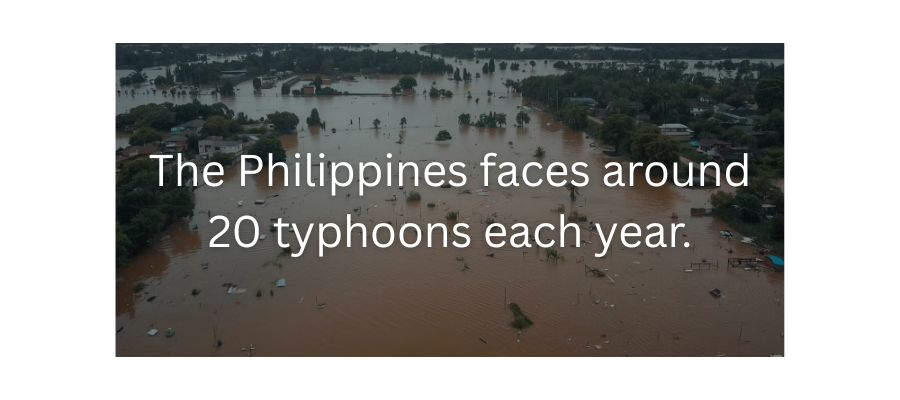
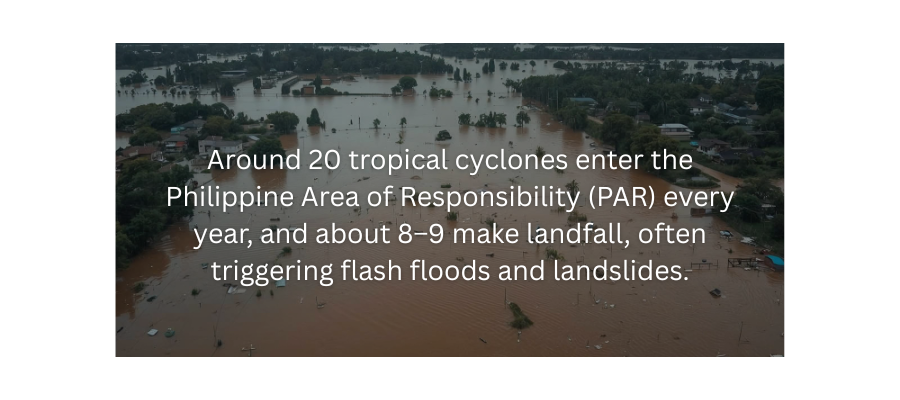
Updated Awareness page layout and added bordered rectangles with images

Changed region(s): [[0.1556, 0.36, 0.84, 0.72]]

diff --git a/Pages/awareness.html b/Pages/awareness.html
@@ -17,7 +17,7 @@
   <header class="shadow-sm fixed-top bg-white bg-opacity-95">
     <div class="container d-flex justify-content-between align-items-center py-3">
       <div class="logo fs-3 fw-bold text-primary d-flex align-items-center gap-2">
-        🌊 Project Daluyong
+         Project Daluyong
       </div>
       <nav>
         <ul class="nav">
@@ -43,67 +43,77 @@
 
     <!-- Awareness Cards -->
     <div class="row g-4 text-center justify-content-center my-4">
-      <div class="col-md-4">
-        <div class="card h-100 shadow access-card" onclick="scrollToSection('before')">
-          <div class="card-body">
-            <h3 class="card-title text-primary">Before the Storm</h3>
-            <p class="card-text">Learn how to prepare before disaster strikes.</p>
-          </div>
-        </div>
-      </div>
-
-      <div class="col-md-4">
-        <div class="card h-100 shadow access-card" onclick="scrollToSection('during')">
-          <div class="card-body">
-            <h3 class="card-title text-primary">During the Emergency</h3>
-            <p class="card-text">Stay safe and informed while the storm is ongoing.</p>
-          </div>
-        </div>
-      </div>
-
-      <div class="col-md-4">
-        <div class="card h-100 shadow access-card" onclick="scrollToSection('after')">
-          <div class="card-body">
-            <h3 class="card-title text-primary">After the Event</h3>
-            <p class="card-text">Know what to do and how to recover post-flood.</p>
-          </div>
-        </div>
-      </div>
+  <!-- Before the Storm -->
+  <div class="col-md-4">
+    <div class="card h-100 shadow awareness-scroll-card p-4" onclick="scrollToSection('before')">
+      <i class="fa-solid fa-cloud-bolt fa-3x mb-3"></i>
+      <h3 class="card-title text-white fw-bold">Before the Storm</h3>
+      <p class="card-text text-white-50">Learn how to prepare before disaster strikes.</p>
     </div>
+  </div>
 
-    <!-- Awareness Details -->
-    <section class="hotlines mb-4" id="before">
-      <h2 class="text-center text-primary mb-3">Before the Storm </h2>
-      <ul class="list-group list-group-flush">
-        <li class="list-group-item">✅ Stay informed about weather forecasts and alerts from PAGASA or local authorities.</li>
-        <li class="list-group-item">✅ Prepare an emergency kit with food, water, flashlight, radio, batteries, and first aid supplies.</li>
-        <li class="list-group-item">✅ Secure important documents in waterproof containers.</li>
-        <li class="list-group-item">✅ Move valuables to higher ground and unplug electrical appliances.</li>
-        <li class="list-group-item">✅ Plan evacuation routes and know the nearest shelter.</li>
-      </ul>
-    </section>
+  <!-- During the Emergency -->
+  <div class="col-md-4">
+    <div class="card h-100 shadow awareness-scroll-card p-4" onclick="scrollToSection('before')">
+      <i class="fa-solid fa-triangle-exclamation fa-3x mb-3"></i>
+      <h3 class="card-title text-white fw-bold">During the Emergency</h3>
+      <p class="card-text text-white-50">Stay safe and informed while the storm is ongoing.</p>
+    </div>
+  </div>
 
-    <section class="hotlines mb-4" id="during">
-      <h2 class="text-center text-primary mb-3">During the Emergency </h2>
-      <ul class="list-group list-group-flush">
-        <li class="list-group-item">⚠ Stay calm and follow official instructions.</li>
-        <li class="list-group-item">⚠ Evacuate immediately if advised or if water levels rise.</li>
-        <li class="list-group-item">⚠ Avoid walking or driving through floodwaters.</li>
-        <li class="list-group-item">⚠ Stay updated via radio or official pages.</li>
-        <li class="list-group-item">⚠ Use text messages to contact family; keep lines open.</li>
-      </ul>
-    </section>
+  <!-- After the Event -->
+  <div class="col-md-4">
+    <div class="card h-100 shadow awareness-scroll-card p-4" onclick="scrollToSection('before')">
+      <i class="fa-solid fa-house-chimney fa-3x mb-3"></i>
+      <h3 class="card-title text-white fw-bold">After the Event</h3>
+      <p class="card-text text-white-50">Know what to do and how to recover post-flood.</p>
+    </div>
+  </div>
+</div>
 
-    <section class="hotlines mb-4" id="after">
-      <h2 class="text-center text-primary mb-3">After the Event </h2>
-      <ul class="list-group list-group-flush">
-        <li class="list-group-item">🏠 Return home only when authorities say it's safe.</li>
-        <li class="list-group-item">🏠 Avoid contact with floodwater; it may be contaminated.</li>
-        <li class="list-group-item">🏠 Clean and disinfect items touched by floodwater.</li>
-        <li class="list-group-item">🏠 Document damages for insurance or assistance.</li>
-        <li class="list-group-item">🏠 Check for structural damage before entering your home.</li>
-      </ul>
-    </section>
+   <!-- Awareness Details -->
+<section class="hotlines mb-4 awareness-detail d-flex flex-column flex-md-row align-items-center border rounded-4 p-4 shadow" id="before" style="border: 3px solid #667eea;">
+  <div class="flex-grow-1 me-md-4 text-start">
+    <h2 class="text-primary mb-3">Before the Storm</h2>
+    <ul class="list-group list-group-flush">
+      <li class="list-group-item border-0">✅ Monitor weather forecasts and updates from PAGASA or local authorities.</li>
+      <li class="list-group-item border-0">✅ Prepare a “Go Bag” with food, water, flashlight, batteries, and first aid essentials.</li>
+      <li class="list-group-item border-0">✅ Keep important documents and valuables in waterproof containers.</li>
+      <li class="list-group-item border-0">✅ Secure your home — unplug appliances and elevate items if you live in a flood-prone area.</li>
+      <li class="list-group-item border-0">✅ Identify safe evacuation routes and inform your family about them.</li>
+    </ul>
+  </div>
+  <img src="images/before-storm.jpg" alt="Before the Storm" class="img-fluid rounded-4 mt-3 mt-md-0" style="max-width: 300px; height: auto;">
+</section>
+
+<section class="hotlines mb-4 awareness-detail d-flex flex-column flex-md-row align-items-center border rounded-4 p-4 shadow" id="during" style="border: 3px solid #6a5acd;">
+  <div class="flex-grow-1 me-md-4 text-start">
+    <h2 class="text-primary mb-3">During the Emergency</h2>
+    <ul class="list-group list-group-flush">
+      <li class="list-group-item border-0">⚠ Stay alert and follow official instructions from disaster response units.</li>
+      <li class="list-group-item border-0">⚠ Evacuate immediately when advised — don’t wait for floodwaters to rise.</li>
+      <li class="list-group-item border-0">⚠ Avoid walking, swimming, or driving through moving water.</li>
+      <li class="list-group-item border-0">⚠ Stay tuned to the radio or official social media pages for updates.</li>
+      <li class="list-group-item border-0">⚠ Keep communication lines open — use text messages instead of calls.</li>
+    </ul>
+  </div>
+  <img src="images/during-storm.jpg" alt="During the Emergency" class="img-fluid rounded-4 mt-3 mt-md-0" style="max-width: 300px; height: auto;">
+</section>
+
+<section class="hotlines mb-4 awareness-detail d-flex flex-column flex-md-row align-items-center border rounded-4 p-4 shadow" id="after" style="border: 3px solid #764ba2;">
+  <div class="flex-grow-1 me-md-4 text-start">
+    <h2 class="text-primary mb-3">After the Event</h2>
+    <ul class="list-group list-group-flush">
+      <li class="list-group-item border-0">🏠 Return home only when authorities declare it safe to do so.</li>
+      <li class="list-group-item border-0">🏠 Avoid contact with floodwater — it may contain harmful waste or chemicals.</li>
+      <li class="list-group-item border-0">🏠 Clean and disinfect everything that came in contact with floodwater.</li>
+      <li class="list-group-item border-0">🏠 Document property damage for insurance and assistance purposes.</li>
+      <li class="list-group-item border-0">🏠 Check for structural damage, gas leaks, and exposed wires before entering.</li>
+    </ul>
+  </div>
+  <img src="images/after-storm.jpg" alt="After the Event" class="img-fluid rounded-4 mt-3 mt-md-0" style="max-width: 300px; height: auto;">
+</section>
+
 
     <!-- Emergency Hotlines -->
     <section class="hotlines">

diff --git a/Pages/styletest.css b/Pages/styletest.css
@@ -347,7 +347,7 @@
     }
 
     .awareness-item {
-      background: #2c5aa0;
+      background: #ffffff;
       border-radius: 10px;
       display: flex;
       align-items: center;
@@ -365,6 +365,10 @@
       background: #1e3d6f;
       transform: translateY(-3px);
     }
+    body {
+  background: linear-gradient(135deg, #667eea 0%, #764ba2 100%);
+  color: #333;
+}
 
     /* Map Section */
     .map-container {
@@ -830,4 +834,112 @@ header .nav-link {
   object-fit: cover;          /* crop nicely */
   border-radius: 15px;        /* matches your design */
 }
+/* Awareness cards style */
+.awareness-card {
+  background: linear-gradient(135deg, rgba(44, 90, 160, 0.9), rgba(118, 75, 162, 0.9));
+  color: white;
+  border: none;
+  border-radius: 20px;
+  transition: all 0.3s ease;
+  cursor: pointer;
+}
+
+.awareness-card i {
+  color: #ffd43b; /* yellow accent for icons */
+  transition: transform 0.3s ease;
+}
+
+.awareness-card:hover {
+  transform: translateY(-8px);
+  box-shadow: 0 12px 30px rgba(0, 0, 0, 0.25);
+  background: linear-gradient(135deg, rgba(65, 115, 190, 1), rgba(138, 85, 190, 1));
+}
+
+.awareness-card:hover i {
+  transform: scale(1.1);
+}
+/* Awareness cards style */
+.awareness-card {
+  background: linear-gradient(135deg, rgba(44, 90, 160, 0.95), rgba(118, 75, 162, 0.95));
+  color: white;
+  border: none;
+  border-radius: 20px;
+  transition: all 0.3s ease;
+  cursor: pointer;
+}
+
+.awareness-card i {
+  color: #ffd43b; /* yellow accent */
+  transition: transform 0.3s ease;
+}
+
+.awareness-card:hover {
+  transform: translateY(-8px);
+  box-shadow: 0 12px 30px rgba(0, 0, 0, 0.25);
+  background: linear-gradient(135deg, rgba(65, 115, 190, 1), rgba(138, 85, 190, 1));
+}
+
+.awareness-card:hover i {
+  transform: scale(1.1);
+}
+/* Awareness cards style */
+.awareness-scroll-card {
+  background: linear-gradient(135deg, rgba(44, 90, 160, 0.95), rgba(118, 75, 162, 0.95));
+  color: white;
+  border: none;
+  border-radius: 20px;
+  transition: all 0.3s ease;
+  cursor: pointer;
+}
+
+.awareness-card i {
+  color: #ffd43b; /* yellow accent */
+  transition: transform 0.3s ease;
+}
+
+.awareness-card:hover {
+  transform: translateY(-8px);
+  box-shadow: 0 12px 30px rgba(0, 0, 0, 0.25);
+  background: linear-gradient(135deg, rgba(65, 115, 190, 1), rgba(138, 85, 190, 1));
+}
+
+.awareness-card:hover i {
+  transform: scale(1.1);
+}
+.awareness-detail {
+  background: linear-gradient(135deg, #667eea 0%, #764ba2 100%);
+  border-radius: 20px;
+  padding: 30px;
+  color: white;
+  box-shadow: 0 6px 15px rgba(0, 0, 0, 0.3);
+  transition: transform 0.3s ease, box-shadow 0.3s ease;
+}
+
+.awareness-detail:hover {
+  transform: translateY(-5px);
+  box-shadow: 0 8px 20px rgba(0, 0, 0, 0.4);
+}
+
+.awareness-detail .list-group-item {
+  background: transparent;
+  border: none;
+  color: #fff;
+  font-size: 1rem;
+  text-align: left;
+}
+
+.awareness-detail h2 i {
+  color: #ffdf6c;
+}
+.awareness-detail h2 {
+  color: white !important;
+}
+header {
+  background-color: rgba(255, 255, 255, 0.95);
+  transition: background-color 0.3s ease-in-out;
+}
+
+
+
+
 

diff --git a/Pages/script.js b/Pages/script.js
@@ -86,3 +86,23 @@ window.addEventListener("scroll", () => {
 scrollBtn.addEventListener("click", () => {
   window.scrollTo({ top: 0, behavior: "smooth" });
 });
+document.querySelector('form[role="search"]').addEventListener('submit', function(e) {
+  e.preventDefault();
+
+  const query = this.querySelector('input').value.toLowerCase();
+  const elements = document.querySelectorAll('h1, h2, h3, p, li, a');
+  let found = false;
+
+  elements.forEach(el => {
+    if (el.textContent.toLowerCase().includes(query)) {
+      el.scrollIntoView({ behavior: 'smooth', block: 'center' });
+      el.style.backgroundColor = 'rgba(255, 255, 0, 0.4)'; // highlight effect
+      setTimeout(() => el.style.backgroundColor = '', 2000); // remove highlight after 2s
+      found = true;
+    }
+  });
+
+  if (!found) {
+    alert('No matching content found on this page.');
+  }
+});

diff --git a/Pages/home.html b/Pages/home.html
@@ -17,7 +17,7 @@
   <header class="shadow-sm fixed-top bg-white bg-opacity-95">
     <div class="container d-flex justify-content-between align-items-center py-3">
       <div class="logo fs-3 fw-bold text-primary d-flex align-items-center gap-2">
-        🌊 Project Daluyong
+         Project Daluyong
       </div>
       <nav>
         <ul class="nav">
@@ -141,7 +141,6 @@
       <h5>BFP Fire Emergency</h5>
       <p class="hotline-number">116</p>
     </div>
-
   </div>
 </section>
  <!-- Quick Facts Carousel -->

diff --git a/Pages/map.html b/Pages/map.html
@@ -14,7 +14,7 @@
   <!-- Navbar -->
   <header class="shadow-sm fixed-top bg-white bg-opacity-95">
     <div class="container d-flex justify-content-between align-items-center py-3">
-      <div class="logo fs-3 fw-bold text-primary d-flex align-items-center gap-2">🌊 Project Daluyong</div>
+      <div class="logo fs-3 fw-bold text-primary d-flex align-items-center gap-2"> Project Daluyong</div>
       <nav>
         <ul class="nav">
           <li class="nav-item"><a href="home.html" class="nav-link">Home</a></li>

diff --git a/Pages/get-involved.html b/Pages/get-involved.html
@@ -11,7 +11,7 @@
 <body>
   <header class="shadow-sm fixed-top bg-white bg-opacity-95">
     <div class="container d-flex justify-content-between align-items-center py-3">
-      <div class="logo fs-3 fw-bold text-primary d-flex align-items-center gap-2">🌊 Project Daluyong</div>
+      <div class="logo fs-3 fw-bold text-primary d-flex align-items-center gap-2"> Project Daluyong</div>
       <nav>
         <ul class="nav">
           <li class="nav-item"><a href="home.html" class="nav-link">Home</a></li>

diff --git a/Pages/blog.html b/Pages/blog.html
@@ -17,7 +17,7 @@
   <header class="shadow-sm fixed-top bg-white bg-opacity-95">
     <div class="container d-flex justify-content-between align-items-center py-3">
       <div class="logo fs-3 fw-bold text-primary d-flex align-items-center gap-2">
-        🌊 Project Daluyong
+         Project Daluyong
       </div>
       <nav>
         <ul class="nav">

diff --git a/Pages/contact.html b/Pages/contact.html
@@ -17,7 +17,7 @@
   <header class="shadow-sm fixed-top bg-white bg-opacity-95">
     <div class="container d-flex justify-content-between align-items-center py-3">
       <div class="logo fs-3 fw-bold text-primary d-flex align-items-center gap-2">
-        🌊 Project Daluyong
+         Project Daluyong
       </div>
       <nav>
         <ul class="nav">
